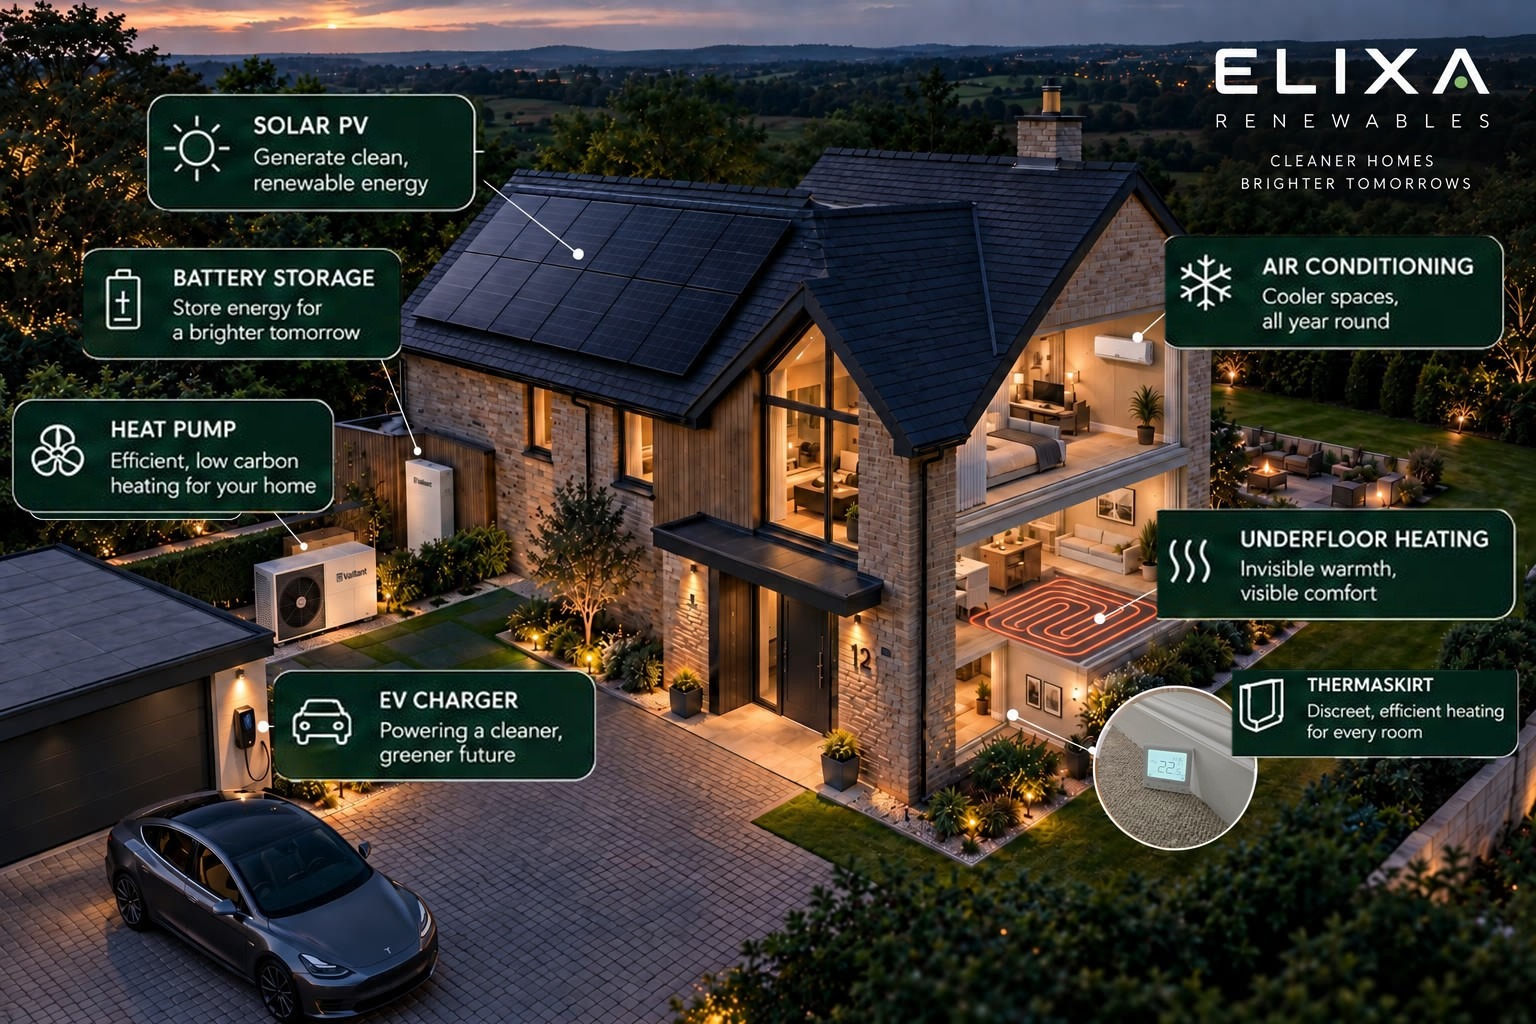
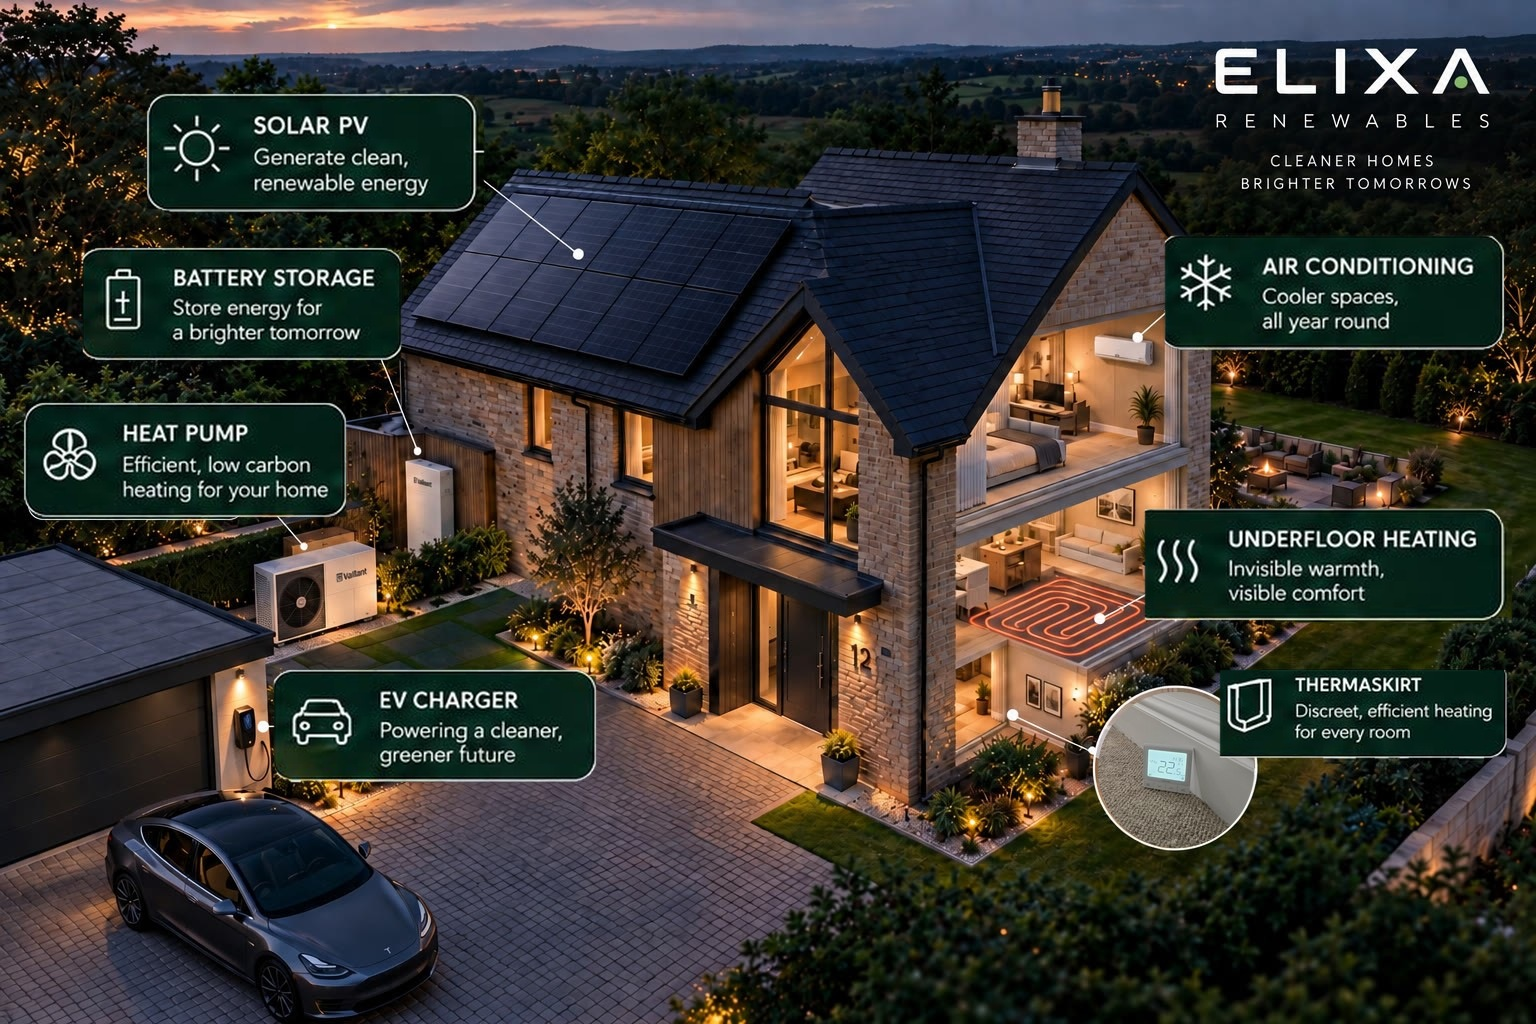
Add back navigation, and repair the card borders
BACK NAVIGATION

There was none. From a product page the only way back to the cutaway —
which is halfway down the homepage — was to hit Home and scroll until
you found your place again.

BackLink renders as a real link, so it survives middle-click, works
without JavaScript, and gives someone arriving cold from a search
result somewhere sensible to go. When the visitor did come from
elsewhere on this site it steps back through history instead, which
restores their scroll position — the thing a plain link cannot do.

On the seven product pages, back to the cutaway. On a case study, back
to the case study index.

CARD BORDERS

The white borders were breaking up, which was my doing, in two ways.

Cards pushed against the frame edge had their border cropped off on
that side — heat pump was sitting 6px from the left edge, ThermaSkirt
hard against the right. The frame margin is now 18px.

Worse, a card that was nudged or clamped no longer completely covered
the smaller original underneath, so the original's border showed as a
ghost line. Placement is now constrained to swallow the original whole
before the margin rule is applied.

Regenerating this also needed the pre-enlargement original, which is no
longer what is checked out — the enlarged version is committed, so a
checkout restores that and the cards get enlarged twice. Pulled from
278a044^ instead.

Claude-Session: https://claude.ai/code/session_01CzxfpEP74mwhP49aLZZL4W

diff --git a/components/v2/BackLink.tsx b/components/v2/BackLink.tsx
@@ -1,0 +1,48 @@
+"use client";
+
+import Link from "next/link";
+import type { MouseEvent } from "react";
+
+/**
+ * Back navigation for inner pages.
+ *
+ * Most people reach the product pages from the cutaway diagram, which sits
+ * halfway down the homepage. Without this, getting back there means going to
+ * the homepage and scrolling to find their place again — the nav's "Home"
+ * lands them at the top.
+ *
+ * It renders as a real link to `href`, so it works with JavaScript off,
+ * survives middle-click and open-in-new-tab, and gives someone who arrived
+ * cold from a search result somewhere sensible to go. When the visitor
+ * genuinely came from elsewhere on this site, it steps back through history
+ * instead, which restores their scroll position — the thing a plain link
+ * cannot do.
+ */
+export function BackLink({ href, label }: { href: string; label: string }) {
+  const onClick = (e: MouseEvent<HTMLAnchorElement>) => {
+    // Leave modified clicks alone — those are "open it over there" gestures.
+    if (e.metaKey || e.ctrlKey || e.shiftKey || e.altKey || e.button !== 0) return;
+    try {
+      const ref = document.referrer;
+      if (ref && new URL(ref).origin === window.location.origin) {
+        e.preventDefault();
+        window.history.back();
+      }
+    } catch {
+      /* unparseable referrer — let the link do its job */
+    }
+  };
+
+  return (
+    <Link
+      href={href}
+      onClick={onClick}
+      className="group inline-flex items-center gap-2.5 font-techmono text-[11px] uppercase tracking-[0.2em] text-night-faint transition-colors hover:text-night-accent"
+    >
+      <span aria-hidden className="transition-transform duration-300 group-hover:-translate-x-1">
+        ←
+      </span>
+      {label}
+    </Link>
+  );
+}

diff --git a/app/underfloor-heating/page.tsx b/app/underfloor-heating/page.tsx
@@ -3,6 +3,7 @@ import Link from "next/link";
 import { SmoothScroll } from "@/components/v2/SmoothScroll";
 import { NavV2 } from "@/components/v2/Nav";
 import { FooterV2 } from "@/components/v2/FooterV2";
+import { BackLink } from "@/components/v2/BackLink";
 import { UNDERFLOOR_SYSTEMS, UNDERFLOOR_NOTE, THERMALOOP } from "@/content/underfloorSystems";
 
 const BASE = process.env.NEXT_PUBLIC_BASE_PATH || "";
@@ -42,6 +43,9 @@ export default function UnderfloorHeatingPage() {
         {/* header */}
         <header className="mx-auto grid max-w-[1500px] items-start gap-10 px-5 pb-16 pt-36 md:grid-cols-[minmax(0,1.25fr)_minmax(0,1fr)] md:gap-16 md:px-10 md:pb-20 md:pt-44">
           <div>
+            <div className="mb-6">
+              <BackLink href="/#solutions" label="All solutions" />
+            </div>
             <p className="font-techmono text-[11px] uppercase tracking-[0.3em] text-night-accent">
               Underfloor heating — the systems
             </p>

diff --git a/app/battery-storage/page.tsx b/app/battery-storage/page.tsx
@@ -3,6 +3,7 @@ import Link from "next/link";
 import { SmoothScroll } from "@/components/v2/SmoothScroll";
 import { NavV2 } from "@/components/v2/Nav";
 import { FooterV2 } from "@/components/v2/FooterV2";
+import { BackLink } from "@/components/v2/BackLink";
 import { BATTERY_RANGE, BATTERY_NOTE } from "@/content/batteryRange";
 
 const BASE = process.env.NEXT_PUBLIC_BASE_PATH || "";
@@ -42,6 +43,9 @@ export default function BatteryStoragePage() {
         {/* header */}
         <header className="mx-auto grid max-w-[1500px] items-start gap-10 px-5 pb-16 pt-36 md:grid-cols-[minmax(0,1.25fr)_minmax(0,1fr)] md:gap-16 md:px-10 md:pb-20 md:pt-44">
           <div>
+            <div className="mb-6">
+              <BackLink href="/#solutions" label="All solutions" />
+            </div>
             <p className="font-techmono text-[11px] uppercase tracking-[0.3em] text-night-accent">
               Battery storage — the range
             </p>

diff --git a/app/air-conditioning/page.tsx b/app/air-conditioning/page.tsx
@@ -3,6 +3,7 @@ import Link from "next/link";
 import { SmoothScroll } from "@/components/v2/SmoothScroll";
 import { NavV2 } from "@/components/v2/Nav";
 import { FooterV2 } from "@/components/v2/FooterV2";
+import { BackLink } from "@/components/v2/BackLink";
 import { AIRCON_RANGE, AIRCON_NOTE } from "@/content/airconRange";
 
 const BASE = process.env.NEXT_PUBLIC_BASE_PATH || "";
@@ -42,6 +43,9 @@ export default function AirConditioningPage() {
         {/* header */}
         <header className="mx-auto grid max-w-[1500px] items-start gap-10 px-5 pb-16 pt-36 md:grid-cols-[minmax(0,1.25fr)_minmax(0,1fr)] md:gap-16 md:px-10 md:pb-20 md:pt-44">
           <div>
+            <div className="mb-6">
+              <BackLink href="/#solutions" label="All solutions" />
+            </div>
             <p className="font-techmono text-[11px] uppercase tracking-[0.3em] text-night-accent">
               Air conditioning — the range
             </p>

diff --git a/app/ev-charging/page.tsx b/app/ev-charging/page.tsx
@@ -3,6 +3,7 @@ import Link from "next/link";
 import { SmoothScroll } from "@/components/v2/SmoothScroll";
 import { NavV2 } from "@/components/v2/Nav";
 import { FooterV2 } from "@/components/v2/FooterV2";
+import { BackLink } from "@/components/v2/BackLink";
 import { EV_CHARGER_RANGE, EV_NOTE } from "@/content/evChargerRange";
 
 const BASE = process.env.NEXT_PUBLIC_BASE_PATH || "";
@@ -42,6 +43,9 @@ export default function EvChargingPage() {
         {/* header */}
         <header className="mx-auto grid max-w-[1500px] items-start gap-10 px-5 pb-16 pt-36 md:grid-cols-[minmax(0,1.25fr)_minmax(0,1fr)] md:gap-16 md:px-10 md:pb-20 md:pt-44">
           <div>
+            <div className="mb-6">
+              <BackLink href="/#solutions" label="All solutions" />
+            </div>
             <p className="font-techmono text-[11px] uppercase tracking-[0.3em] text-night-accent">
               EV charging — the range
             </p>

diff --git a/app/air-source-heat-pumps/page.tsx b/app/air-source-heat-pumps/page.tsx
@@ -3,6 +3,7 @@ import Link from "next/link";
 import { SmoothScroll } from "@/components/v2/SmoothScroll";
 import { NavV2 } from "@/components/v2/Nav";
 import { FooterV2 } from "@/components/v2/FooterV2";
+import { BackLink } from "@/components/v2/BackLink";
 import { HEAT_PUMP_RANGE, RANGE_NOTE } from "@/content/heatPumpRange";
 
 const BASE = process.env.NEXT_PUBLIC_BASE_PATH || "";
@@ -23,6 +24,9 @@ export default function HeatPumpsPage() {
         {/* header */}
         <header className="mx-auto grid max-w-[1500px] items-start gap-10 px-5 pb-16 pt-36 md:grid-cols-[minmax(0,1.25fr)_minmax(0,1fr)] md:gap-16 md:px-10 md:pb-20 md:pt-44">
           <div>
+          <div className="mb-6">
+            <BackLink href="/#solutions" label="All solutions" />
+          </div>
           <p className="font-techmono text-[11px] uppercase tracking-[0.3em] text-night-accent">
             Heat pumps — the range
           </p>

diff --git a/app/solar-pv/page.tsx b/app/solar-pv/page.tsx
@@ -3,6 +3,7 @@ import Link from "next/link";
 import { SmoothScroll } from "@/components/v2/SmoothScroll";
 import { NavV2 } from "@/components/v2/Nav";
 import { FooterV2 } from "@/components/v2/FooterV2";
+import { BackLink } from "@/components/v2/BackLink";
 import { SOLAR_RANGE, SOLAR_RANGE_NOTE } from "@/content/solarRange";
 
 const BASE = process.env.NEXT_PUBLIC_BASE_PATH || "";
@@ -23,6 +24,9 @@ export default function SolarPage() {
         {/* header */}
         <header className="mx-auto grid max-w-[1500px] items-start gap-10 px-5 pb-16 pt-36 md:grid-cols-[minmax(0,1.25fr)_minmax(0,1fr)] md:gap-16 md:px-10 md:pb-20 md:pt-44">
           <div>
+          <div className="mb-6">
+            <BackLink href="/#solutions" label="All solutions" />
+          </div>
           <p className="font-techmono text-[11px] uppercase tracking-[0.3em] text-night-accent">
             Solar PV — the range
           </p>

diff --git a/app/thermaskirt/page.tsx b/app/thermaskirt/page.tsx
@@ -3,6 +3,7 @@ import Link from "next/link";
 import { SmoothScroll } from "@/components/v2/SmoothScroll";
 import { NavV2 } from "@/components/v2/Nav";
 import { FooterV2 } from "@/components/v2/FooterV2";
+import { BackLink } from "@/components/v2/BackLink";
 
 const BASE = process.env.NEXT_PUBLIC_BASE_PATH || "";
 
@@ -61,6 +62,9 @@ export default function ThermaskirtPage() {
         {/* header */}
         <header className="mx-auto grid max-w-[1500px] items-start gap-10 px-5 pb-16 pt-36 md:grid-cols-[minmax(0,1.25fr)_minmax(0,1fr)] md:gap-16 md:px-10 md:pb-20 md:pt-44">
           <div>
+          <div className="mb-6">
+            <BackLink href="/#solutions" label="All solutions" />
+          </div>
           <p className="font-techmono text-[11px] uppercase tracking-[0.3em] text-night-accent">
             ThermaSkirt — heated skirting
           </p>

diff --git a/app/case-studies/[slug]/page.tsx b/app/case-studies/[slug]/page.tsx
@@ -3,6 +3,7 @@ import Link from "next/link";
 import { SmoothScroll } from "@/components/v2/SmoothScroll";
 import { NavV2 } from "@/components/v2/Nav";
 import { FooterV2 } from "@/components/v2/FooterV2";
+import { BackLink } from "@/components/v2/BackLink";
 import { CASE_STUDIES } from "@/content/caseStudies";
 
 const BASE = process.env.NEXT_PUBLIC_BASE_PATH || "";
@@ -31,6 +32,9 @@ export default function CaseStudyPage({ params }: { params: { slug: string } }) 
 
         {/* header */}
         <header className="mx-auto max-w-[1500px] px-5 pb-12 pt-36 md:px-10 md:pb-16 md:pt-44">
+          <div className="mb-6">
+            <BackLink href="/case-studies" label="All case studies" />
+          </div>
           <p className="font-techmono text-[11px] uppercase tracking-[0.3em] text-night-accent">
             {cs.kind}
           </p>
